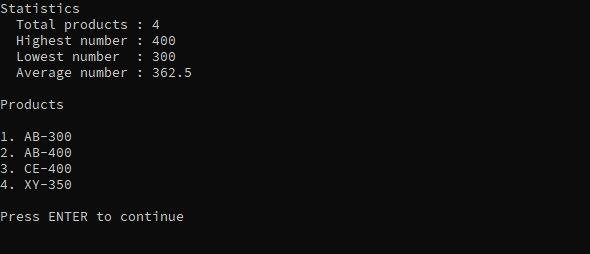
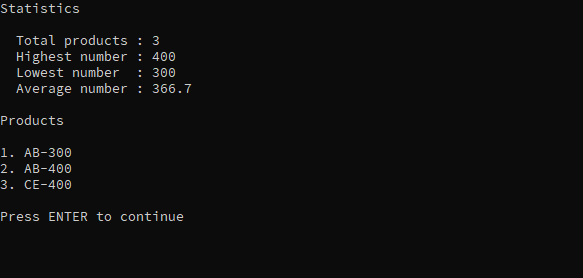
Updated screenshot once again

diff --git a/Lexicon.InventoryManagementSystem/Program.cs b/Lexicon.InventoryManagementSystem/Program.cs
@@ -186,6 +186,8 @@ static void PrintStatistics(IReadOnlyCollection<Product> products)
 	var numbers = products.Select(p => p.Id).ToArray();
 
 	Console.WriteLine("Statistics");
+	Console.WriteLine();
+
 	Console.WriteLine($"  Total products : {numbers.Length}");
 	Console.WriteLine($"  Highest number : {numbers.Max()}");
 	Console.WriteLine($"  Lowest number  : {numbers.Min()}");
